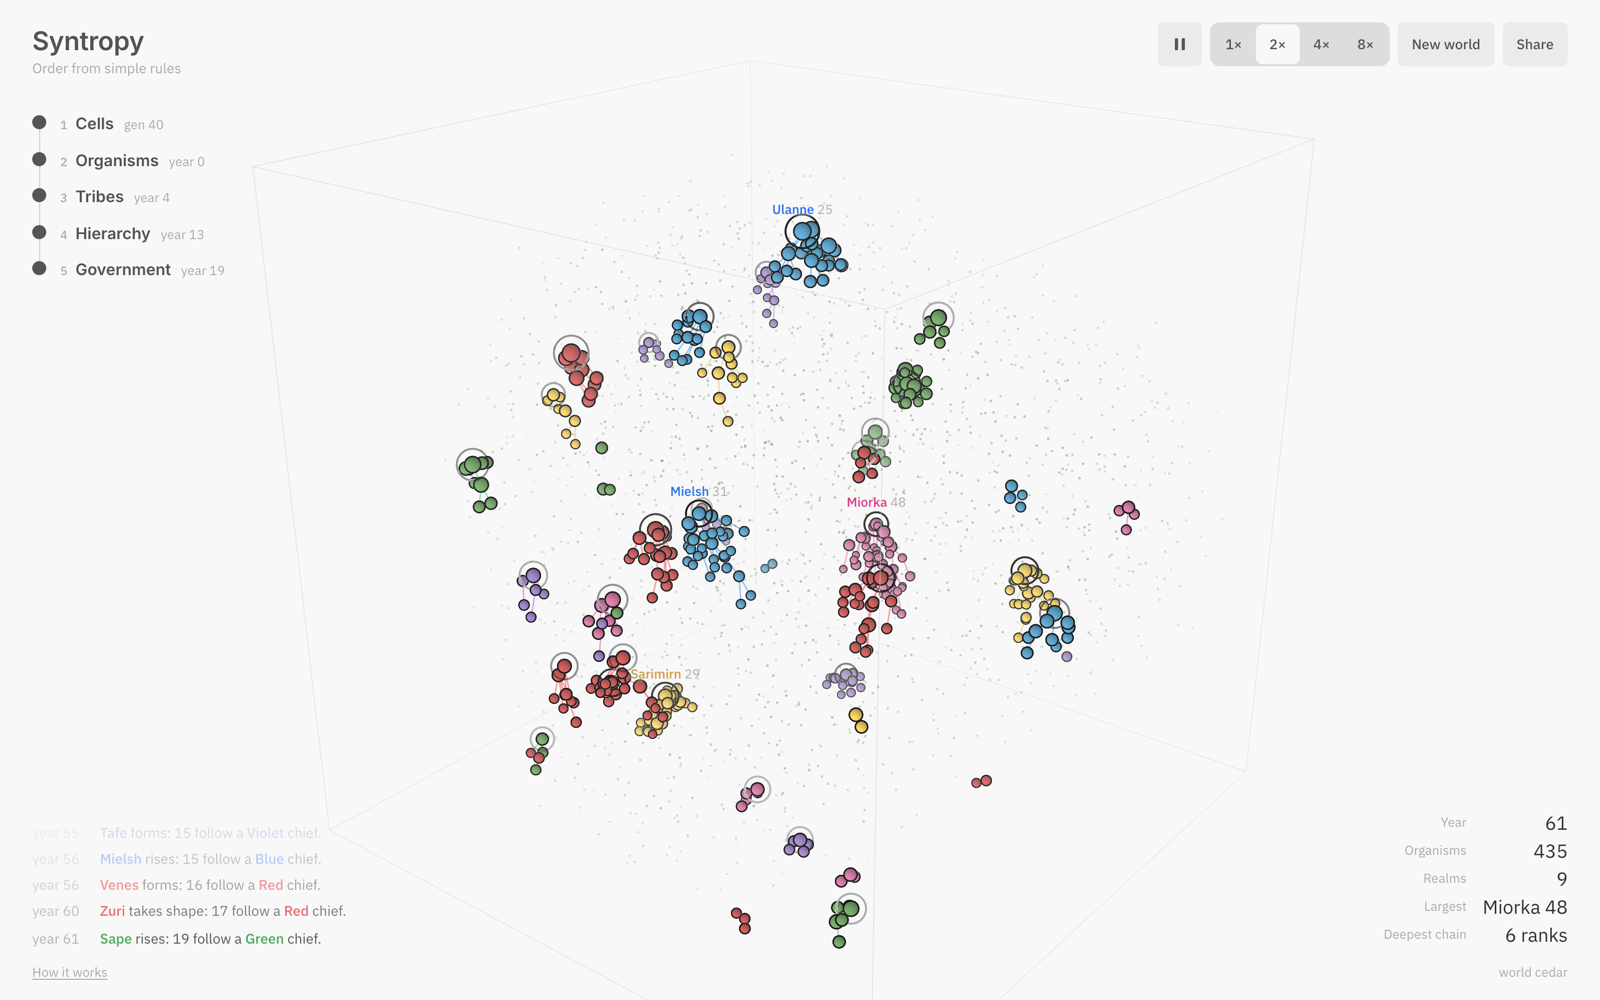
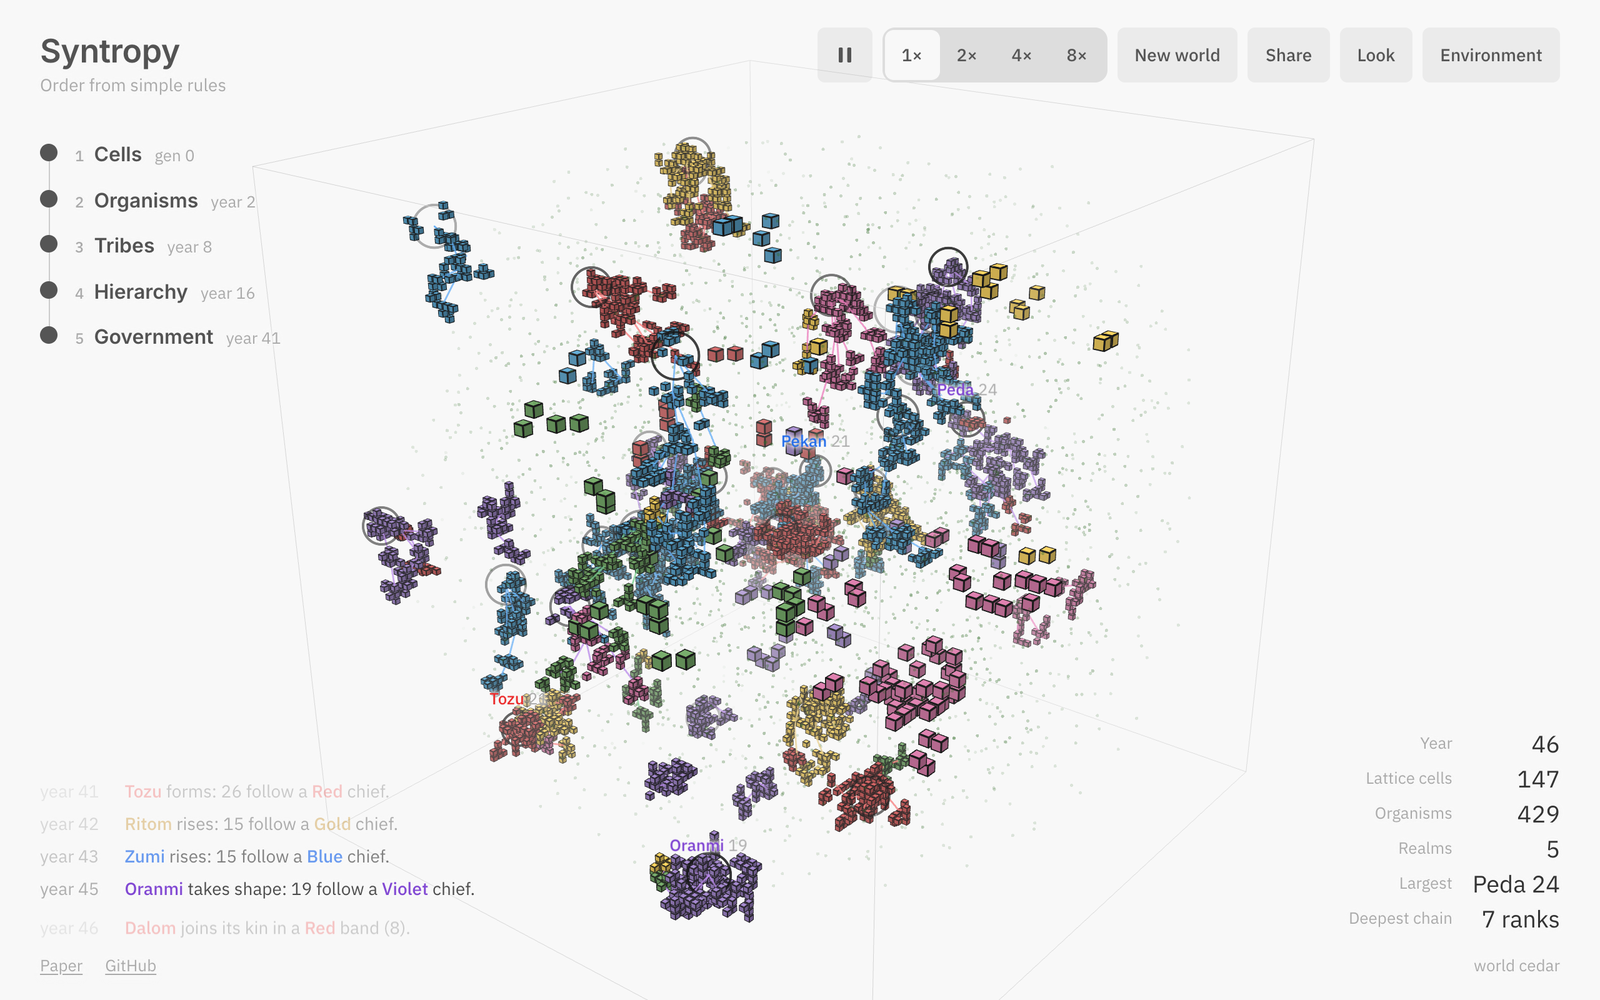
Update the README and preview images for the continuous world

diff --git a/README.md b/README.md
@@ -1,69 +1,75 @@
 # Syntropy
 
-![Realms hanging from their rulers, coloured by tribe](docs/hero.png)
+![Realms of voxel organisms hanging from their rulers, coloured by lineage](docs/hero.png)
 
-### [**Watch it run →**](https://syntropy-sim.vercel.app)
+### [**Watch it run →**](https://syntropy-sim.vercel.app) &nbsp; [**Read the paper →**](https://syntropy-sim.vercel.app/paper/) &nbsp; [PDF](https://syntropy-sim.vercel.app/paper/syntropy.pdf)
 
-Syntropy is a 3D take on Conway's Game of Life that keeps climbing. Coloured cells on a lattice settle into forms, the forms become organisms, the organisms group into tribes, and the tribes end up in hierarchies where some organisms rule others. Every so often a realm survives the death of its ruler, which is the point where I'd call it a government.
+Syntropy is a 3D take on Conway's Game of Life that keeps climbing. Coloured cells on a lattice settle into forms. Each form that holds its shape for twenty generations comes loose as an organism made of exactly those cells, in exactly that place, while the rest of the lattice keeps running. Organisms eat, grow a cell when they have surplus, burn one when they starve, split in two, fight and age. Then they start following each other, and the world climbs through tribes and hierarchies to realms that regroup under a new ruler when the old one dies.
 
-The rules only say what one organism does next to its neighbours. Each rung of the ladder is a measurement that notices when a new kind of order has shown up. It runs in your browser with no server behind it, and each world has a seed in the URL, so a link replays the same history for whoever opens it.
+None of that is scripted. There's no rule for tribes, ranks, conquest, rebellion, heirs or government. Every organism makes one choice, over and over: follow whoever keeps it safest, net of the tribute it would pay, or follow no one. Conquest, secession and succession all fall out of that one choice, and the ladder on the left of the screen only reports what a measurement noticed.
+
+It runs in your browser with no server behind it, and each world has a seed in the URL, so a link replays the same history.
 
 ## The ladder
 
-| Level | What runs | Reached when |
+| Level | What happens | Reached when |
 | --- | --- | --- |
-| 1. Cells | 3D Life on a 48³ lattice: a dead cell with 7 or 8 live neighbours is born, a live cell with 1 to 5 survives. Newborns take the most common lineage around them. | 56 forms hold their shape for 20 generations |
-| 2. Organisms | Each form that held becomes one body at the same spot, and the forms that didn't fade. Bodies eat from a food field that regrows, move, split when they're rich, and age. | The held forms become bodies |
-| 3. Tribes | A newborn follows its parent. A ruler or a loner bows to a much stronger kin polity nearby, sooner when foreigners crowd it. | 3 kin groups of 12+ follow chiefs |
-| 4. Hierarchy | Members of two polities that touch can fight. Local numbers decide, and a clear winner takes the loser (and everyone below it) as followers. Followers pay tribute upward and get fed when they starve. A lord manages 4 followers directly, so newcomers are handed down the tree. | One realm of 40+ rules 2 tribes through 5 ranks |
-| 5. Government | A follower whose branch outgrows the rest of the realm may break away or take the throne. When a ruler dies, the strongest follower inherits, and the others stay only if the heir is clearly stronger. | A realm of 40+ outlives its ruler and keeps 60% of its members |
+| 1. Cells | 3D Life on a 48³ lattice: a dead cell with 7 or 8 live neighbours is born, a live cell with 1 to 5 survives. Newborns take the most common lineage around them. | The lattice starts alive |
+| 2. Organisms | A form that keeps its place and size for 20 generations comes loose as one body made of its cells. Intake and upkeep scale with mass^0.75 (Kleiber's law). Surplus builds a cell, deficit burns one, and a body of 12 cells splits in two. | The first form comes loose |
+| 3. Tribes | Organisms choose whom to follow by local safety, net of tribute. Kin threaten each other less and tax each other less. | 3 groups of 10+, mostly kin, follow one chief |
+| 4. Hierarchy | Fights are Tullock contests between the local mass of two polities, and the loser loses cells to the winner. Tribute flows up every chain. | A realm of 30+ rules other lineages through 4 ranks |
+| 5. Government | When a ruler dies nobody inherits, and every orphan chooses again. | 60% of a realm of 30+ regroup under one new ruler within 240 ticks |
 
 Levels can only be reached in order.
 
 ## Reading the picture
 
-- The fill colour is the tribe (lineage) an organism was born into: Blue, Red, Gold, Green, Violet or Rose.
-- A line runs from every follower up to its lord, in the colour of the ruler's tribe, so a Blue line on a Red organism means Blue rules it.
-- Followers settle just below their lord. A realm hangs from its ruler like an upside-down tree, and siblings spread apart in proportion to the size of their branches.
-- A ring marks a ruler, and bigger bodies have more organisms below them.
-- The green stipple is food. It thins out where a realm grazes and grows back after.
-- Hovering an organism traces its chain of command and shows its rank.
+- Every organism is drawn as its own cells, in the colour of the lineage it came from (Blue, Red, Gold, Green, Violet or Rose).
+- A line runs from every follower up to its lord, in the colour of the ruler's lineage, so a Blue line on a Red body means Blue rules it.
+- Each rank is drawn one step below its lord, so a realm hangs from its ruler like an upside-down tree. The step exists only in the drawing, and the simulation never sees it.
+- A ring marks a ruler, and it darkens as the realm grows.
+- The faint stipple is food. It thins where a realm grazes and grows back after.
+- Hovering an organism traces its chain of command and shows its rank, size and age.
+- The Look menu switches between Paper (the default), Night, Blueprint, Ink and Nebula. The Environment panel changes food, fighting, tribute, kinship, control loss, lifespan and choice noise live, and the URL carries your settings.
 
-## Tuning without graphics
+## The paper
+
+[Syntropy: From Cells to Government](https://syntropy-sim.vercel.app/paper/) is the full write-up: the model, the derivation of the allegiance rule (the Kelly criterion applied to Hobbes' bargain), the measurements, and the experiments. Those are a 48-world baseline, ablations of every ingredient, a phase diagram over fear and tribute, an analysis of what makes a realm survive its ruler, and the search behind the lattice rule. Every number in it is filled in from the experiment output when the paper is built.
+
+## Tuning and experiments without graphics
 
 The simulation core in `src/sim` is plain TypeScript with no browser dependencies, so Node runs it directly (Node 22.18+ strips the types).
 
 ```bash
-npm run world -- --seed cedar --ticks 6000
+npm run world -- --seed cedar --ticks 9000
 ```
 
-That prints one world's history as a chronicle, at 100 ticks to a year, with the ladder times and counts at the end. These lines are from that run:
+That prints one world's history as a chronicle, at 100 ticks to a year:
 
 ```
-y  5 *** Tribes: 3 kin groups now follow chiefs.
-y 13     Pever conquers Vesa and its 29.
-y 13 *** Hierarchy: Pever rules 3 tribes through 8 ranks.
-y 13     Rebellion: 29 Gold subjects break away from Pever.
-y 19 *** Government: Taul outlives its ruler, and the heir keeps 100% of 41.
-y 23     Coup in Sada: a Green lord seizes the throne.
-y 45     Tove overruns Kotopex and its 37.
+y  3 *** Organisms: a Gold form holds together and comes loose from the lattice.
+y  9 *** Tribes: 3 kin groups now follow chiefs.
+y 17 *** Hierarchy: Kais rules 4 tribes through 6 ranks.
+y 42 *** Government: Kais outlives its ruler: 61% of 36 regroup under a new ruler.
 ```
 
 ```bash
-npm run sweep -- --sets 160 --refine 72 --seeds 6 --ticks 12000
+npm run sweep -- --sets 200 --refine 90 --seeds 6 --ticks 9000
 ```
 
-The sweep runs a random search over 32 parameters on worker threads, refines around the four best sets, and then checks the three finalists on 16 seeds it never trained on. Each run gets a score for whether every level arrives in order and not too early, how many major realms stand and how much of the population they hold, and whether some wars, rebellions and collapses happen along the way. The winner goes to `tuning/best.json` and the full table to `tuning/runs/`. The current defaults came out of this loop, which took about 10 minutes on 16 worker threads.
-
-To watch a parameter file in the browser:
+The sweep searches 26 parameters on worker threads, refines around the best sets and confirms the winner on 16 seeds it never trained on. It scores worlds on whether every level appears in order at a pace you can watch, whether several realms coexist, and whether chains of command stay readable. The current defaults came out of it.
 
 ```bash
-npm run url -- tuning/best.json --base http://localhost:5173
+npm run experiments
+npm run figures
+npm run paper
 ```
 
-### How consistent it is
+These regenerate the paper's data (about five minutes on 16 threads), draw its figures and rebuild it. `npm run paper:pdf` prints the PDF while the dev server is running.
 
-I checked the defaults on 32 seeds, 16 from the search and 16 it never saw, each run for 150 to 190 years. 31 of the 32 worlds reached all five levels. The median world had a multi-tribe hierarchy by year 20 to 38 and a government by year 29 to 80, with 10 to 11 major realms (15+ members) holding 70% of the population and 2 to 3 rebellions or coups per 10 years. The one miss (seed `s13`) had 25 conquests, but no realm ever held two tribes, 40 members and 5 ranks at the same time.
+## How consistent it is
+
+All 48 seeded worlds in the paper's baseline climbed the whole ladder within 150 simulated years. The median world formed tribes in year 9.5, a hierarchy in year 22.8 and a government in year 37.8, which at the default speed comes about a minute after the first organism. The ablations switch off one ingredient at a time on 32 worlds each. Without fear of unallied neighbours nothing forms at all, while worlds with no fights, no tribute or no kin preference still reached government every time. The phase diagram in the paper maps where in fear and tribute each level stops appearing.
 
 ## Running it
 
@@ -72,17 +78,19 @@ npm install
 npm run dev
 ```
 
-`npm run build` writes a static site to `dist/`. It's Vite and Three.js with no server code, so Vercel serves it as plain files and a visit costs about 260 KB of transfer. Space pauses, `N` makes a new world, and `1` to `4` set the speed.
+`npm run build` writes a static site to `dist/`, with the simulation and the paper. It's Vite and Three.js with no server code, so a visit costs a few hundred kilobytes of static transfer and nothing else. Space pauses, `N` makes a new world, `H` hides the interface, and `1` to `4` set the speed.
 
 ## Layout
 
 - `src/sim/cells.ts` is the lattice and form tracking.
-- `src/sim/society.ts` holds the organisms, polities, events and ladder checks.
+- `src/sim/society.ts` holds the organisms, the allegiance rule, polities, events and ladder checks.
+- `src/sim/world.ts` joins the two levels into one continuous world.
 - `src/sim/score.ts` turns a run into numbers and a score.
-- `src/render/` has the voxel, sphere, line and food drawing.
-- `src/ui/hud.ts` is the ladder, chronicle and readouts.
-- `scripts/` holds the headless runner, sweep, rule search and URL helper.
+- `src/render/` draws cubes, rings, lines and food, and holds the themes.
+- `src/ui/` is the ladder, chronicle, readouts and panels.
+- `scripts/` holds the headless runner, sweep, experiments, figures and the paper build.
+- `paper/` is the paper source, data and figures.
 
-The look follows `docs/taste/ciechanow.ski.md`: one paper ground, gray controls, a single 1.5px ink outline, and colour spent only on the organisms and the words that name them.
+The default look follows `docs/taste/ciechanow.ski.md`: one paper ground, gray controls, a single ink outline, and colour spent only on the organisms and the words that name them.
 
 MIT licensed.
